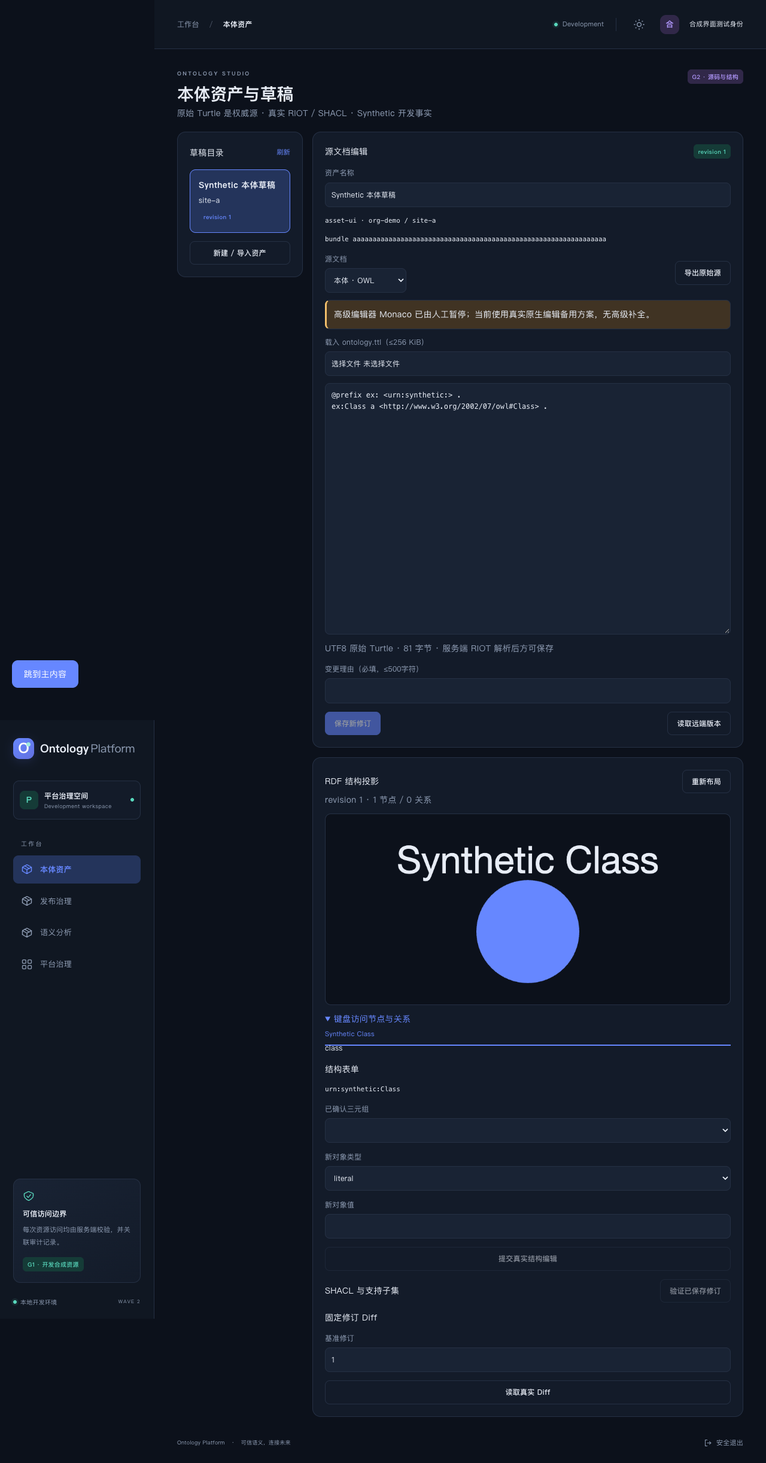
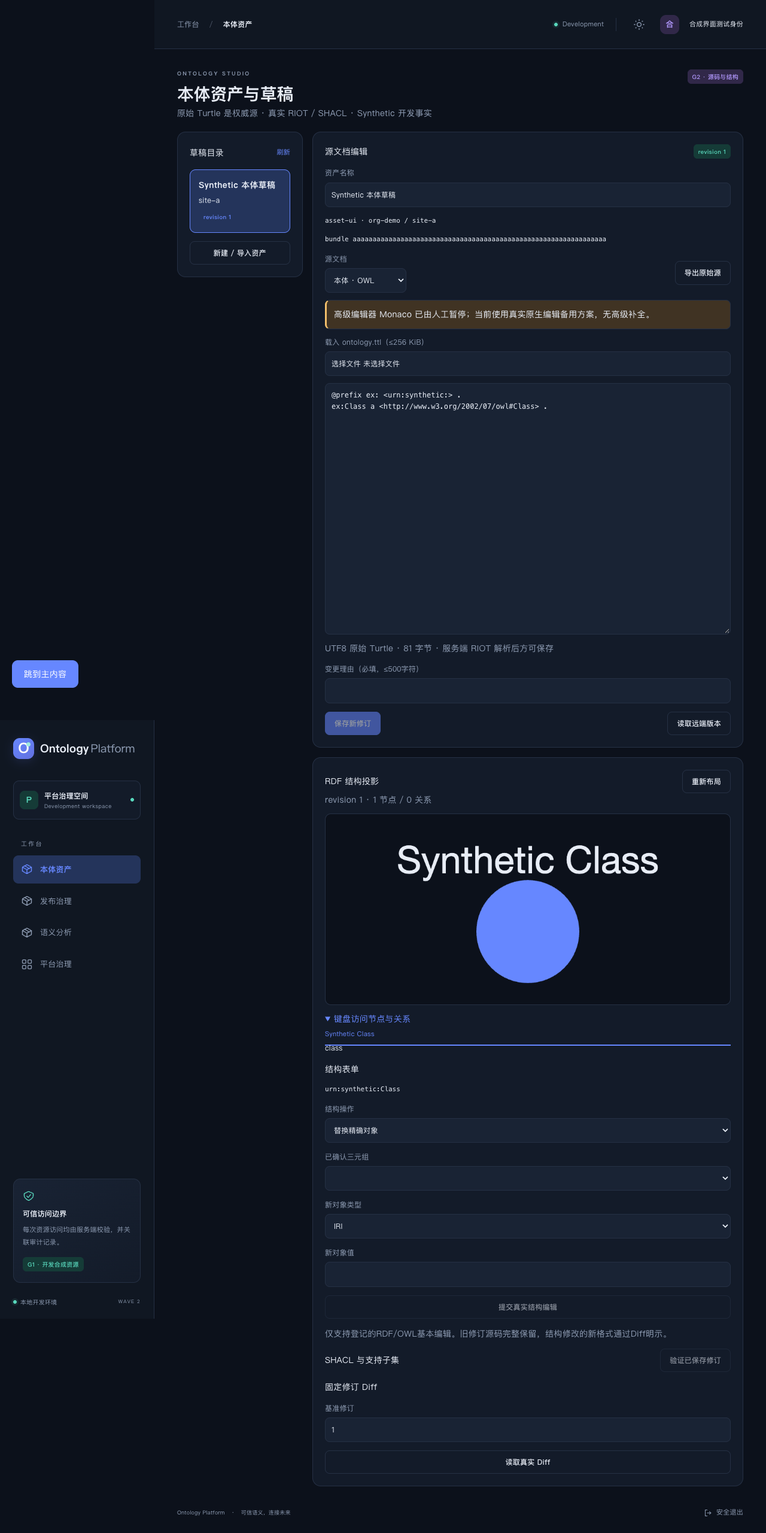
feat(web): extend standard RDF forms and G2 lifecycle UI coverage DRAFT

diff --git a/apps/web/tests/g2/lifecycle.spec.ts b/apps/web/tests/g2/lifecycle.spec.ts
@@ -1,0 +1,56 @@
+import { expect, test } from "@playwright/test";
+import type { AssetVersionSnapshot, EvidenceRef, ExecutionRun, ReleaseManifest, ReleaseProposal, ReleaseSummary, SemanticCapability, SemanticQueryResult } from "../../src/lib/api/g2-generated";
+const hash = "b".repeat(64);
+const scope = { organizationId: "org-demo", siteIds: ["site-a"] };
+const snapshot: AssetVersionSnapshot = { releaseId: "release-ui", ontologyHash: hash, shapesHash: hash, vocabularyHash: null, dataHash: hash, ontologyGraphIri: "urn:release:ontology", dataGraphIri: "urn:release:data", mappingVersions: [], metricVersions: [], ruleVersions: [], capabilityVersions: [{ assetId: "describe_ontology", version: hash }] };
+const manifest: ReleaseManifest = { schemaVersion: 1, releaseId: "release-ui", assetId: "asset-ui", scope, draftId: "draft-ui", revision: 2, hashes: { ontologyHash: hash, shapesHash: hash, vocabularyHash: null, dataHash: hash, bundleHash: hash }, ontologyGraphIri: snapshot.ontologyGraphIri, dataGraphIri: snapshot.dataGraphIri, importLocks: [], snapshot, artifactObjects: [], createdAtUtc: "2026-10-26T00:00:00Z" };
+const release: ReleaseSummary = { manifest, manifestHash: hash, isActive: true, activationRevision: 1, status: "ACTIVE" };
+const capability: SemanticCapability = { id: "describe_ontology", version: hash, inputSchema: { schemaVersion: 1, type: "object", required: ["assetId"], properties: [], additionalProperties: false }, outputSchema: {}, meaning: "读取正式本体Schema", policy: "semantic.read", executorId: "registered", budgets: { maxDepth: 5, maxRows: 100, timeoutMs: 5000, maxToolCalls: 3 } };
+const evidence: EvidenceRef = { evidenceId: "evidence-ui", releaseId: "release-ui", scope, graphIri: "urn:release:data", subjectIri: "urn:synthetic:entity", predicateIri: "urn:synthetic:value", objectTerm: { kind: "literal", value: "Synthetic", datatype: null, language: null }, sourceId: "Synthetic", sourceRecordId: "record-ui", sourceObjectKey: "immutable-key", contentHash: hash, validFromUtc: "2026-10-25T00:00:00Z", validToUtc: null, observedAtUtc: "2026-10-26T00:00:00Z", modelVersion: hash, mappingVersion: null, synthetic: true };
+const baseResult: SemanticQueryResult = { status: "FOUND", data: [{ kind: "entity", ontology: null, relationship: null, entity: { iri: "urn:synthetic:entity", typeIris: ["urn:synthetic:Class"], label: "<img src=x onerror=alert(1)>", externalId: "record-ui", organizationId: "org-demo", siteId: "site-a", synthetic: true, properties: [] } }], candidates: [], evidence: [evidence], snapshot, subSources: [{ sourceId: "Synthetic", status: "AVAILABLE", releaseId: "release-ui", dataHash: hash, observedAtUtc: "2026-10-26T00:00:00Z", code: null }], validTime: null, observedAtUtc: "2026-10-26T00:00:00Z", traceId: "fixture-safe-trace", limited: false, diagnostics: [] };
+const baseRun: ExecutionRun = { runId: "run-ui", ownerSubjectId: "g2-ui-fixture", scope, snapshot, status: "RUNNING", providerMode: "deterministic", createdAtUtc: "2026-10-26T00:00:00Z", updatedAtUtc: "2026-10-26T00:00:00Z", lastSeq: 0, cancelRequested: false, leaseOwner: null, leaseUntil: null, fencingToken: 1 };
+test.beforeEach(async ({ page }) => {
+  await page.route("**/auth/csrf", route => route.fulfill({ json: { requestToken: "bounded-ui" } }));
+  await page.route("**/api/v1/releases", route => route.fulfill({ json: [release] }));
+  await page.route("**/api/v1/capabilities", route => route.fulfill({ json: [capability] }));
+  await page.route("**/api/v1/execution-runs", route => route.fulfill({ json: [] }));
+});
+for (const status of ["FOUND", "EMPTY", "PARTIAL", "UNAVAILABLE", "UNAUTHORIZED", "AMBIGUOUS"] as const) {
+  test(`真实展示六态 ${status}，不执行HTML且证据再次授权`, async ({ page }) => {
+    let evidenceReads = 0;
+    await page.route("**/api/v1/semantic/queries", route => route.fulfill({ json: { ...baseResult, status, data: ["FOUND", "PARTIAL"].includes(status) ? baseResult.data : [], evidence: ["FOUND", "PARTIAL"].includes(status) ? [evidence] : [], limited: status === "PARTIAL", candidates: status === "AMBIGUOUS" ? [{ entityIri: "urn:synthetic:one", entityTypeIris: [], externalId: "same", organizationId: "org-demo", siteId: "site-a", label: "授权候选A", evidenceIds: [] }, { entityIri: "urn:synthetic:two", entityTypeIris: [], externalId: "same", organizationId: "org-demo", siteId: "site-b", label: "授权候选B", evidenceIds: [] }] : [] } }));
+    await page.route("**/api/v1/evidence/evidence-ui", route => { evidenceReads++; return route.fulfill({ status: 403, json: { code: "forbidden" } }); });
+    await page.goto("/analysis");
+    await page.getByRole("button", { name: "执行真实查询" }).click();
+    await expect(page.locator(".g2-status")).toContainText(status);
+    await expect(page.locator(".g2-panel img")).toHaveCount(0);
+    if (["FOUND", "PARTIAL"].includes(status)) { await expect(page.getByRole("heading", { name: "<img src=x onerror=alert(1)>" })).toBeVisible(); await page.getByRole("button", { name: /Synthetic \/ record-ui/ }).click(); await expect(page.locator(".g2-notice[role=alert]")).toContainText("HTTP 403"); expect(evidenceReads).toBe(1); }
+    if (status === "AMBIGUOUS") { await expect(page.getByText(/授权候选A/)).toBeVisible(); await expect(page.getByText(/授权候选B/)).toBeVisible(); }
+  });
+}
+test("提案自批禁止/异人批准/激活固定当前CAS", async ({ page }) => {
+  const proposal: ReleaseProposal = { proposalId: "proposal-other", kind: "PUBLISH", assetId: "asset-ui", scope, draftId: "draft-ui", draftRevision: 2, hashes: manifest.hashes, validationReportId: "report-ui", targetReleaseId: null, targetManifestHash: null, submittedBy: "other-subject", submittedAtUtc: "2026-10-26T00:00:00Z", expiresAtUtc: "2099-01-01T00:00:00Z", status: "PENDING", revision: 1, approval: null };
+  const own = { ...proposal, proposalId: "proposal-own", submittedBy: "g2-ui-fixture" };
+  let decision: unknown = null; let activation: unknown = null;
+  await page.route("**/api/v1/release-proposals", route => route.fulfill({ json: [proposal, own] }));
+  await page.route("**/api/v1/approvals/proposal-other/decisions", route => { decision = route.request().postDataJSON(); proposal.status = "APPROVED"; proposal.revision = 2; return route.fulfill({ json: proposal }); });
+  await page.route("**/api/v1/release-activations", route => { activation = route.request().postDataJSON(); return route.fulfill({ json: { activationId: "a-ui", activationRevision: 2, releaseId: "release-next", previousReleaseId: "release-ui", manifestHash: hash, manifest, auditId: "audit-ui", outboxEventId: "outbox-ui", activatedAtUtc: "2026-10-26T00:00:00Z" } }); });
+  await page.goto("/releases"); await page.getByRole("textbox", { name: "审核操作理由" }).fill("合成异人审核");
+  const other = page.locator("article").filter({ hasText: "proposal-other / 1" }); const self = page.locator("article").filter({ hasText: "proposal-own / 1" });
+  await expect(self.getByRole("button", { name: "异人批准" })).toBeDisabled(); await other.getByRole("button", { name: "异人批准" }).click();
+  await expect.poll(() => decision).toMatchObject({ decision: "approve", command: { expectedRevision: 1 } });
+  await page.locator("article").filter({ hasText: "proposal-other / 2" }).getByRole("button", { name: "激活已批准版本" }).click();
+  await expect.poll(() => activation).toMatchObject({ proposalId: "proposal-other", expectedActivationRevision: 1, expectedActiveReleaseId: "release-ui" });
+  await expect(page.getByText("audit-ui / outbox-ui")).toBeVisible();
+});
+test("持久Run重放文本事件与终态，显示harness标识", async ({ page }) => {
+  let created: unknown = null;
+  const events = [ { seq: 1, eventType: "run.started", payload: { kind: "run.started", providerMode: "deterministic", capabilityIds: ["describe_ontology"], maxToolCalls: 3, timeoutMs: 30000 } }, { seq: 2, eventType: "message.delta", payload: { kind: "message.delta", text: "<script>alert(1)</script> 合成真实事件文本" } }, { seq: 3, eventType: "run.completed", payload: { kind: "run.completed", status: "COMPLETED", totalToolCalls: 1, lastResultStatus: "FOUND" } } ].map(value => ({ ...value, runId: "run-ui", eventId: `run-ui:${value.seq}`, schemaVersion: 1, occurredAtUtc: "2026-10-26T00:00:00Z", snapshot }));
+  await page.route("**/api/v1/execution-runs", route => { if (route.request().method() === "POST") { created = route.request().postDataJSON(); return route.fulfill({ json: baseRun }); } return route.fulfill({ json: created ? [baseRun] : [] }); });
+  await page.route("**/api/v1/execution-runs/run-ui", route => route.fulfill({ json: { ...baseRun, status: "COMPLETED", lastSeq: 3 } }));
+  await page.route("**/api/v1/execution-runs/run-ui/events", route => route.fulfill({ contentType: "text/event-stream", body: events.map(event => `id: ${event.eventId}\ndata: ${JSON.stringify(event)}\n\n`).join("") }));
+  await page.goto("/analysis"); await expect(page.getByText(/真实模型未配置/)).toBeVisible(); await page.getByRole("textbox", { name: "运行说明" }).fill("查看正式Schema"); await expect(page.getByRole("button", { name: "启动确定性工具运行" })).toBeDisabled();
+  await page.getByLabel("明确使用 deterministic harness").check(); await page.getByRole("button", { name: "启动确定性工具运行" }).click();
+  await expect.poll(() => created).toMatchObject({ providerMode: "deterministic", plan: { assetId: "asset-ui", releaseId: "release-ui" } });
+  await expect(page.getByText("<script>alert(1)</script> 合成真实事件文本", { exact: true })).toBeVisible(); await expect(page.getByRole("heading", { name: "COMPLETED", exact: true })).toBeVisible(); await expect(page.locator(".g2-panel script")).toHaveCount(0);
+});

diff --git a/apps/web/src/features/ontology/workspace.tsx b/apps/web/src/features/ontology/workspace.tsx
@@ -2,10 +2,11 @@
 import dynamic from "next/dynamic";
 import { useCallback, useEffect, useRef, useState } from "react";
 import type { PlatformIdentity } from "../../lib/api/generated";
-import type { DraftDiff, OntologyDraft, SemanticValidationReport, SourceBundle, RdfTermKind, SaveDraftRequest } from "../../lib/api/g2-generated";
+import type { DraftDiff, OntologyDraft, SemanticValidationReport, SourceBundle, SaveDraftRequest } from "../../lib/api/g2-generated";
 import { command, createG2Client } from "../../lib/api/g2-client";
 import { SemanticError, Trace } from "../../components/ui/semantic-feedback";
 import { draftState, isDirty, updateSource, type DraftState } from "./draft-state";
+import { StructuralForm } from "./structural-form";
 import { SourceEditor } from "./source-editor";
 import "./workspace.css";
 const client = createG2Client();
@@ -31,9 +32,6 @@ export function OntologyWorkspace({ identity }: { identity: PlatformIdentity }) 
   const [diff, setDiff] = useState<DraftDiff | null>(null);
   const [fromRevision, setFromRevision] = useState(1);
   const [selected, setSelected] = useState("");
-  const [tripleIndex, setTripleIndex] = useState("0");
-  const [objectKind, setObjectKind] = useState<RdfTermKind>("literal");
-  const [objectValue, setObjectValue] = useState("");
   const [reason, setReason] = useState("");
   const [retry, setRetry] = useState<SaveDraftRequest | null>(null);
   const lifetime = useRef<AbortController | null>(null);
@@ -67,7 +65,6 @@ export function OntologyWorkspace({ identity }: { identity: PlatformIdentity }) 
     setRetry(payload);
     void execute(async signal => { const saved = await client.saveDraft(state.draft.draftId, payload, signal); accept(saved); setNotice(`已保存 revision ${saved.revision}`); });
   }
-  const editableTriples = state?.draft.projection.triples.filter(triple => triple.subject.kind === "iri" && triple.object.kind !== "blank" && (!selected || triple.subject.value === selected)) ?? [];
   return <div className="g2-workspace">
     <div className="g2-heading"><div><p className="eyebrow">ONTOLOGY STUDIO</p><h1>本体资产与草稿</h1><p>原始 Turtle 是权威源 · 真实 RIOT / SHACL · Synthetic 开发事实</p></div><span className="tag violet">G2 · 源码与结构</span></div>
     {error !== null && <SemanticError error={error} />}{notice && <p role="status" className="g2-notice">{notice}</p>}
@@ -91,7 +88,7 @@ export function OntologyWorkspace({ identity }: { identity: PlatformIdentity }) 
       <section className={`g2-panel g2-stack g2-inspector ${tab !== "inspect" ? "g2-mobile-hidden" : ""}`} aria-label="结构与验证">
         {state ? <><SemanticGraph projection={state.draft.projection} stale={dirty} onSelect={chooseNode} />
           {state.draft.projection.diagnostics.map((diagnostic, index) => <p className="g2-notice" key={index}>{diagnostic.code} · {diagnostic.message}</p>)}
-          <section className="g2-stack"><h3>结构表单</h3><p className="g2-hash">{selected || "选择图节点或下方三元组"}</p>{!state.draft.projection.structuralEditAllowed && <p className="g2-notice">存在未知/复杂公理或空白节点；结构编辑已阻断，原始源完整保留。</p>}<label>已确认三元组<select value={tripleIndex} onChange={event => setTripleIndex(event.target.value)} aria-label="结构编辑三元组">{editableTriples.map((triple, index) => <option key={index} value={index}>{triple.subject.value} · {triple.predicate} → {triple.object.value}</option>)}</select></label><label>新对象类型<select value={objectKind} onChange={event => setObjectKind(event.target.value as RdfTermKind)}><option value="literal">literal</option><option value="iri">IRI</option></select></label><label>新对象值<input value={objectValue} onChange={event => setObjectValue(event.target.value)} /></label><button className="button" disabled={busy || dirty || !canEdit || !state.draft.projection.structuralEditAllowed || !editableTriples[Number(tripleIndex)] || !objectValue.trim() || !reason.trim()} onClick={() => void execute(async signal => { const triple = editableTriples[Number(tripleIndex)]; accept(await client.editDraft(state.draft.draftId, { edit: { subjectIri: triple.subject.value, predicateIri: triple.predicate, oldObject: triple.object, newObject: { kind: objectKind, value: objectValue, datatype: objectKind === "literal" && triple.object.kind === "literal" ? triple.object.datatype : null, language: objectKind === "literal" && triple.object.kind === "literal" ? triple.object.language : null } }, command: command(state.draft.revision, reason) }, signal)); setNotice("结构编辑已由服务端保存为新修订"); })}>提交真实结构编辑</button></section>
+          <StructuralForm projection={state.draft.projection} selected={selected} blocked={busy || dirty || !canEdit || !reason.trim()} onEdit={edit => void execute(async signal => { accept(await client.editDraft(state.draft.draftId, { edit, command: command(state.draft.revision, reason) }, signal)); setNotice("结构编辑已由服务端保存为新修订"); })} />
           <section className="g2-stack"><div className="g2-row"><h3>SHACL 与支持子集</h3><button className="button" disabled={busy || dirty || !canEdit || !reason.trim()} onClick={() => void execute(async signal => setReport(await client.validateDraft(state.draft.draftId, { revision: state.draft.revision, hashes: state.draft.hashes, command: command(state.draft.revision, reason) }, signal)))}>验证已保存修订</button></div>{dirty && <p className="muted">保存后才能验证当前文本。</p>}{report && <><strong className="g2-status">{report.kind} · {report.conforms ? "符合" : "不符合"} · revision {report.revision}</strong><p className="g2-hash">{report.hashes.bundleHash}</p>{report.issues.map((issue, index) => <article className="g2-notice" key={index}><strong>{issue.severity} · {issue.message}</strong><p>{issue.focusNode?.value} · {issue.path}</p><small>{issue.constraintComponent} · {issue.sourceId}</small></article>)}<Trace traceId={report.traceId} /><p className="muted">OWL 逻辑推理：NOT_RUN</p><button className="button primary" disabled={busy || dirty || !report.conforms || report.revision !== state.draft.revision || report.hashes.bundleHash !== state.draft.hashes.bundleHash || !reason.trim() || !canEdit} onClick={() => void execute(async signal => { const proposal = await client.createProposal({ kind: "PUBLISH", draftId: state.draft.draftId, draftRevision: state.draft.revision, hashes: state.draft.hashes, validationReportId: report.reportId, targetReleaseId: null, targetManifestHash: null, command: command(state.draft.revision, reason) }, signal); setNotice(`真实发布提案已提交 ${proposal.proposalId}，请由其他主体在发布治理中审核。`); })}>提交异人发布审核</button></>}</section>
           <section className="g2-stack"><h3>固定修订 Diff</h3><label>基准修订<input type="number" min={1} max={state.draft.revision} value={fromRevision} onChange={event => setFromRevision(Number(event.target.value))} /></label><button className="button" disabled={busy || !Number.isSafeInteger(fromRevision) || fromRevision < 1 || fromRevision > state.draft.revision} onClick={() => void execute(async signal => setDiff(await client.diff(state.draft.draftId, fromRevision, signal)))}>读取真实 Diff</button>{diff && <><p>revision {diff.baseRevision} → {diff.targetRevision} · +{diff.addedTriples.length} / −{diff.removedTriples.length} triples</p><pre className="g2-pre">{diff.sourceDiff}</pre>{diff.unsupportedDiagnostics.map((item, index) => <p key={index}>{item.code} · {item.message}</p>)}</>}</section>
         </> : <><h2>语义检查器</h2><p className="muted">选择或创建真实草稿后，显示相同 revision / hash 的投影、结构表单、SHACL 与 Diff。</p></>}

diff --git a/apps/web/src/features/publishing/review.tsx b/apps/web/src/features/publishing/review.tsx
@@ -43,7 +43,7 @@ export function ReleaseReview({ identity }: { identity: PlatformIdentity }) {
       const active = releases?.find(item => item.manifest.assetId === proposal.assetId && item.isActive);
       return <article key={proposal.proposalId}><div className="g2-row"><strong>{proposal.kind === "PUBLISH" ? "发布提案" : "回滚提案"}</strong><span className="tag violet">{proposal.status}</span></div><dl className="g2-detail"><div><dt>提案 / 修订</dt><dd>{proposal.proposalId} / {proposal.revision}</dd></div><div><dt>资产 / 授权范围</dt><dd>{proposal.assetId} · {proposal.scope.organizationId} / {proposal.scope.siteIds.join(" / ")}</dd></div><div><dt>提交主体 / 到期 UTC</dt><dd>{proposal.submittedBy} · {proposal.expiresAtUtc}</dd></div><div><dt>{proposal.kind === "PUBLISH" ? "绑定草稿 revision / bundle hash" : "绑定目标 release / manifest hash"}</dt><dd>{proposal.kind === "PUBLISH" ? `${proposal.draftId} / ${proposal.draftRevision} / ${proposal.hashes?.bundleHash}` : `${proposal.targetReleaseId} / ${proposal.targetManifestHash}`}</dd></div>{proposal.approval && <div><dt>真实审核决定</dt><dd>{proposal.approval.approvedBy} · {proposal.approval.decision} · {proposal.approval.bindingHash}</dd></div>}</dl>
         {own && <p className="g2-notice">当前主体是提交者，不能自批；请其他授权审核主体处理。</p>}{expired && <p className="g2-notice">此提案已到期，不能审核或激活。</p>}
-        <div className="g2-row">{(["approve", "reject"] as const).map(decision => <button className="button" key={decision} disabled={busy || !reason.trim() || !canApprove || own || expired || proposal.status !== "PENDING"} onClick={() => void execute(async signal => { const result = await client.decide(proposal.proposalId, { decision, command: command(proposal.revision, reason) }, signal); setNotice(`审核已提交：${result.status}`); })}>{decision === "approve" ? "异人批准" : "拒绝提案"}</button>)}<button className="button primary" disabled={busy || releases === null || !reason.trim() || !canActivate || expired || proposal.status !== "APPROVED"} onClick={() => void execute(async signal => { const result = await client.activate({ proposalId: proposal.proposalId, expectedActivationRevision: active?.activationRevision ?? 0, expectedActiveReleaseId: active?.manifest.releaseId ?? null, command: command(proposal.revision, reason) }, signal); setActivation(result); setNotice("服务端已提交激活事务，Manifest、审计和Outbox标识见结果。"); })}>{proposal.kind === "ROLLBACK" ? "激活已批准回滚" : "激活已批准版本"}</button></div></article>;
+        <div className="g2-row">{(["approve", "reject"] as const).map(decision => <button className="button" key={decision} disabled={busy || !reason.trim() || !canApprove || !now || own || expired || proposal.status !== "PENDING"} onClick={() => void execute(async signal => { const result = await client.decide(proposal.proposalId, { decision, command: command(proposal.revision, reason) }, signal); setNotice(`审核已提交：${result.status}`); })}>{decision === "approve" ? "异人批准" : "拒绝提案"}</button>)}<button className="button primary" disabled={busy || releases === null || !reason.trim() || !canActivate || !now || expired || proposal.status !== "APPROVED"} onClick={() => void execute(async signal => { const result = await client.activate({ proposalId: proposal.proposalId, expectedActivationRevision: active?.activationRevision ?? 0, expectedActiveReleaseId: active?.manifest.releaseId ?? null, command: command(proposal.revision, reason) }, signal); setActivation(result); setNotice("服务端已提交激活事务，Manifest、审计和Outbox标识见结果。"); })}>{proposal.kind === "ROLLBACK" ? "激活已批准回滚" : "激活已批准版本"}</button></div></article>;
     })}</div>}</section>
     <section className="g2-panel g2-stack"><h2>正式版本与激活记录</h2>{releases?.length === 0 ? <p className="muted">暂无正式版本。草稿验证通过并经异人批准后才能发布。</p> : <div className="g2-list">{releases?.map(release => <article key={release.manifest.releaseId}><div className="g2-row"><strong>{release.manifest.releaseId}</strong><span className={`tag ${release.isActive ? "teal" : "blue"}`}>{release.status}{release.isActive ? " · 当前 Active" : ""}</span></div><dl className="g2-detail"><div><dt>资产 / 源 revision / 激活 revision</dt><dd>{release.manifest.assetId} / {release.manifest.revision} / {release.activationRevision}</dd></div><div><dt>正式 Manifest SHA256</dt><dd>{release.manifestHash}</dd></div><div><dt>权威 bundle SHA256</dt><dd>{release.manifest.hashes.bundleHash}</dd></div><div><dt>不可变图</dt><dd>{release.manifest.ontologyGraphIri}<br />{release.manifest.dataGraphIri}</dd></div></dl><details><summary>查看真实 Manifest 与制品</summary><pre className="g2-pre">{JSON.stringify(release.manifest, null, 2)}</pre></details><button className="button" disabled={busy || !canActivate || !reason.trim() || release.isActive} onClick={() => void execute(async signal => { const proposal = await client.createProposal({ kind: "ROLLBACK", draftId: null, draftRevision: null, hashes: null, validationReportId: null, targetReleaseId: release.manifest.releaseId, targetManifestHash: release.manifestHash, command: command(release.activationRevision, reason) }, signal); setNotice(`已创建独立回滚提案 ${proposal.proposalId}，需异人审核后激活。`); })}>提出回滚至此版本</button></article>)}</div>}
       {activation && <article className="g2-notice"><strong>实际激活结果</strong><dl className="g2-detail"><div><dt>release / activation revision</dt><dd>{activation.releaseId} / {activation.activationRevision}</dd></div><div><dt>已提交审计 / Outbox</dt><dd>{activation.auditId} / {activation.outboxEventId}</dd></div><div><dt>Manifest hash</dt><dd>{activation.manifestHash}</dd></div></dl></article>}

diff --git a/apps/web/src/features/ontology/structural-form.tsx b/apps/web/src/features/ontology/structural-form.tsx
@@ -1,0 +1,30 @@
+"use client";
+import { useState } from "react";
+import type { SemanticEdit, SemanticProjection, RdfTermKind } from "../../lib/api/g2-generated";
+const rdfType = "http://www.w3.org/1999/02/22-rdf-syntax-ns#type";
+const rdfs = "http://www.w3.org/2000/01/rdf-schema#";
+const standardPredicates = [{ iri: rdfType, title: "rdf:type" }, ...["subClassOf", "domain", "range", "label", "comment"].map(name => ({ iri: rdfs + name, title: `rdfs:${name}` }))];
+/** 只发送精确新增/替换/删除三元组意图；完整RDF修改及支持子集由服务器处理。 */
+export function StructuralForm({ projection, selected, blocked, onEdit }: { projection: SemanticProjection; selected: string; blocked: boolean; onEdit: (edit: SemanticEdit) => void }) {
+  const [operation, setOperation] = useState("replace");
+  const [tripleIndex, setTripleIndex] = useState("0");
+  const [subject, setSubject] = useState("");
+  const [predicate, setPredicate] = useState(rdfType);
+  const [kind, setKind] = useState<RdfTermKind>("iri");
+  const [value, setValue] = useState("");
+  const [datatype, setDatatype] = useState("");
+  const [language, setLanguage] = useState("");
+  const triples = projection.triples.filter(triple => triple.subject.kind === "iri" && triple.object.kind !== "blank" && (!selected || triple.subject.value === selected));
+  const triple = triples[Number(tripleIndex)];
+  const predicates = [...standardPredicates, ...projection.nodes.filter(node => node.kind === "objectProperty" || node.kind === "datatypeProperty").map(node => ({ iri: node.id, title: node.label || node.id }))];
+  const allowed = !blocked && projection.structuralEditAllowed && (operation === "add" ? Boolean(subject.trim() && predicate.trim() && value.trim()) : Boolean(triple && (operation === "remove" || value.trim()))) && !(kind === "literal" && datatype && language);
+  /** 明确旧对象以便CAS精确删除；不从投影拼接/重建整个SourceBundle。 */
+  function submit() {
+    if (!allowed) return;
+    onEdit({ subjectIri: operation === "add" ? subject.trim() : triple.subject.value, predicateIri: operation === "add" ? predicate : triple.predicate, oldObject: operation === "add" ? null : triple.object, newObject: operation === "remove" ? null : { kind, value, datatype: kind === "literal" ? datatype.trim() || null : null, language: kind === "literal" ? language.trim() || null : null } });
+  }
+  return <section className="g2-stack"><h3>结构表单</h3><p className="g2-hash">{selected || "选择图节点或具体三元组"}</p>{!projection.structuralEditAllowed && <p className="g2-notice">存在未知/复杂公理或空白节点；结构编辑已阻断，原始源完整保留。</p>}<label>结构操作<select aria-label="结构操作" value={operation} onChange={event => setOperation(event.target.value)} disabled={blocked}><option value="replace">替换精确对象</option><option value="add">新增标准声明 / 简单断言</option><option value="remove">删除精确三元组</option></select></label>
+    {operation === "add" ? <><label>主体 IRI<input aria-label="主体IRI" value={subject} onChange={event => setSubject(event.target.value)} disabled={blocked} /></label><label>谓词<select aria-label="结构谓词" value={predicate} onChange={event => setPredicate(event.target.value)} disabled={blocked}>{predicates.map(item => <option key={item.iri} value={item.iri}>{item.title}</option>)}</select></label><label>标准声明快捷填入<select aria-label="标准声明快捷填入" defaultValue="" disabled={blocked} onChange={event => { if (event.target.value) { setPredicate(rdfType); setKind("iri"); setValue(event.target.value); } }}><option value="">选择类型声明（可选）</option>{["Class", "ObjectProperty", "DatatypeProperty", "NamedIndividual"].map(name => <option key={name} value={`http://www.w3.org/2002/07/owl#${name}`}>owl:{name}</option>)}</select></label></> : <label>已确认三元组<select aria-label="结构编辑三元组" value={tripleIndex} onChange={event => { setTripleIndex(event.target.value); const next = triples[Number(event.target.value)]; if (next) { setKind(next.object.kind); setValue(next.object.value); setDatatype(next.object.datatype ?? ""); setLanguage(next.object.language ?? ""); } }} disabled={blocked}>{triples.map((item, index) => <option key={index} value={index}>{item.subject.value} · {item.predicate} → {item.object.value}</option>)}</select></label>}
+    {operation !== "remove" && <><label>新对象类型<select aria-label="新对象类型" value={kind} onChange={event => setKind(event.target.value as RdfTermKind)} disabled={blocked}><option value="iri">IRI</option><option value="literal">literal</option></select></label><label>新对象值<input aria-label="新对象值" value={value} onChange={event => setValue(event.target.value)} disabled={blocked} /></label>{kind === "literal" && <><label>datatype IRI<input aria-label="字面量datatypeIRI" value={datatype} onChange={event => { setDatatype(event.target.value); if (event.target.value) setLanguage(""); }} disabled={blocked} /></label><label>language<input aria-label="字面量language" value={language} onChange={event => { setLanguage(event.target.value); if (event.target.value) setDatatype(""); }} disabled={blocked} /></label></>}</>}
+    <button className="button" disabled={!allowed} onClick={submit}>提交真实结构编辑</button><p className="muted">仅支持登记的RDF/OWL基本编辑。旧修订源码完整保留，结构修改的新格式通过Diff明示。</p></section>;
+}

diff --git a/apps/web/tests/g2/workspace.spec.ts b/apps/web/tests/g2/workspace.spec.ts
@@ -73,3 +73,26 @@ test("加载/503/403/404准确显示，不虚构成功数据", async ({ page }) 
   await expect(page.locator(".g2-notice[role=alert]")).toContainText("依赖暂时不可用");
   for (const status of [403, 404]) { await page.route("**/api/v1/ontology-drafts", route => route.fulfill({ status, json: { code: "safe" } })); await page.getByRole("button", { name: "刷新", exact: true }).click(); await expect(page.locator(".g2-notice[role=alert]")).toContainText(`HTTP ${status}`); }
 });
+test("结构新增Class发送唯一SemanticEdit，不浏览器重建本体", async ({ page }) => {
+  let edit: unknown = null;
+  await page.route("**/api/v1/ontology-drafts/draft-ui/edits", route => { edit = route.request().postDataJSON(); return route.fulfill({ json: { ...draft, revision: 2, etag: '"2"', projection: { ...draft.projection, revision: 2 } } }); });
+  await page.goto("/ontologies"); await page.getByRole("button", { name: /Synthetic 本体草稿/ }).click();
+  await page.getByRole("textbox", { name: "变更理由" }).fill("新增合成Class");
+  await page.getByRole("combobox", { name: "结构操作" }).selectOption("add");
+  await page.getByRole("textbox", { name: "主体IRI" }).fill("urn:synthetic:Added");
+  await page.getByRole("combobox", { name: "标准声明快捷填入" }).selectOption("http://www.w3.org/2002/07/owl#Class");
+  await page.getByRole("button", { name: "提交真实结构编辑" }).click();
+  await expect.poll(() => edit).toMatchObject({ edit: { subjectIri: "urn:synthetic:Added", predicateIri: "http://www.w3.org/1999/02/22-rdf-syntax-ns#type", oldObject: null, newObject: { kind: "iri", value: "http://www.w3.org/2002/07/owl#Class" } }, command: { expectedRevision: 1 } });
+});
+test("dirty阻断验证/结构编辑，图布局不产生语义写入", async ({ page }) => {
+  let writes = 0;
+  await page.route("**/api/v1/ontology-drafts/draft-ui/**", route => { if (route.request().method() !== "GET") writes++; return route.fulfill({ status: 503, json: { code: "not_expected" } }); });
+  await page.goto("/ontologies"); await page.getByRole("button", { name: /Synthetic 本体草稿/ }).click();
+  await page.getByRole("button", { name: "重新布局" }).click();
+  await page.getByRole("textbox", { name: "变更理由" }).fill("合成编辑理由");
+  await page.getByRole("textbox", { name: "本体 · OWL源码" }).fill("unsaved local text");
+  await expect(page.getByRole("button", { name: "验证已保存修订" })).toBeDisabled();
+  await expect(page.getByRole("button", { name: "提交真实结构编辑" })).toBeDisabled();
+  await expect(page.getByText("本地源码未保存，下图保留上次服务器确认版本。")).toBeVisible();
+  expect(writes).toBe(0);
+});

diff --git a/apps/web/src/lib/api/g2-client.test.ts b/apps/web/src/lib/api/g2-client.test.ts
@@ -22,3 +22,13 @@ describe("G2同源传输", () => {
     await expect(client.drafts(controller.signal)).rejects.toMatchObject({ code: "invalid_response" }); expect(observed?.signal).toBe(controller.signal);
   });
 });
+describe("G2持久事件订阅", () => {
+  it("用Last-Event-ID和真实fetch流续订，取消信号不变", async () => {
+    const controller = new AbortController(); let observed: RequestInit | undefined;
+    const stream = new ReadableStream<Uint8Array>({ start(c) { c.close(); } });
+    const client = createG2Client({ fetch: async (_url, init) => { observed = init; return new Response(stream, { headers: { "Content-Type": "text/event-stream" } }); } });
+    expect(await client.events("run-1", "run-1:7", controller.signal)).toBe(stream);
+    expect(new Headers(observed?.headers).get("Last-Event-ID")).toBe("run-1:7");
+    expect(observed).toMatchObject({ signal: controller.signal, credentials: "same-origin", cache: "no-store", redirect: "error" });
+  });
+});

diff --git a/apps/web/src/features/agent/event-stream.ts b/apps/web/src/features/agent/event-stream.ts
@@ -1,6 +1,7 @@
 import type { ExecutionEvent } from "../../lib/api/g2-generated";
 /** 事件判别只接受唯一冻结协议；未知事件必须回读Run快照。 */
 function decode(data: string, runId: string): ExecutionEvent {
+  if (new TextEncoder().encode(data).byteLength > 131072) throw new Error("event_budget_exceeded");
   const event = JSON.parse(data) as ExecutionEvent;
   const known = ["run.started", "tool.started", "tool.completed", "evidence.added", "message.delta", "approval.required", "run.completed", "run.failed", "run.cancelled"];
   if (!event || event.runId !== runId || event.schemaVersion !== 1 || !Number.isSafeInteger(event.seq) || event.seq < 1 || event.eventId !== `${runId}:${event.seq}` || !known.includes(event.eventType) || event.payload?.kind !== event.eventType || !event.snapshot?.releaseId) throw new Error("unsupported_event_schema");

diff --git a/apps/web/src/features/agent/run-workspace.tsx b/apps/web/src/features/agent/run-workspace.tsx
@@ -46,6 +46,7 @@ export function RunWorkspace({ plan }: { plan: SemanticQueryPlan | null }) {
       } catch (cause) {
         if (!controller.signal.aborted) {
           setConnected(false); setError(cause);
+          if (cause instanceof Error && ["unsupported_event_schema", "event_sequence_gap", "incomplete_event_stream", "event_budget_exceeded"].includes(cause.message)) setNotice("事件协议或序列不受支持，已停止答案接收并回读持久Run快照。");
           client.run(runId!, controller.signal).then(snapshot => { if (!controller.signal.aborted) setRun(snapshot); }).catch(() => {});
         }
       }
